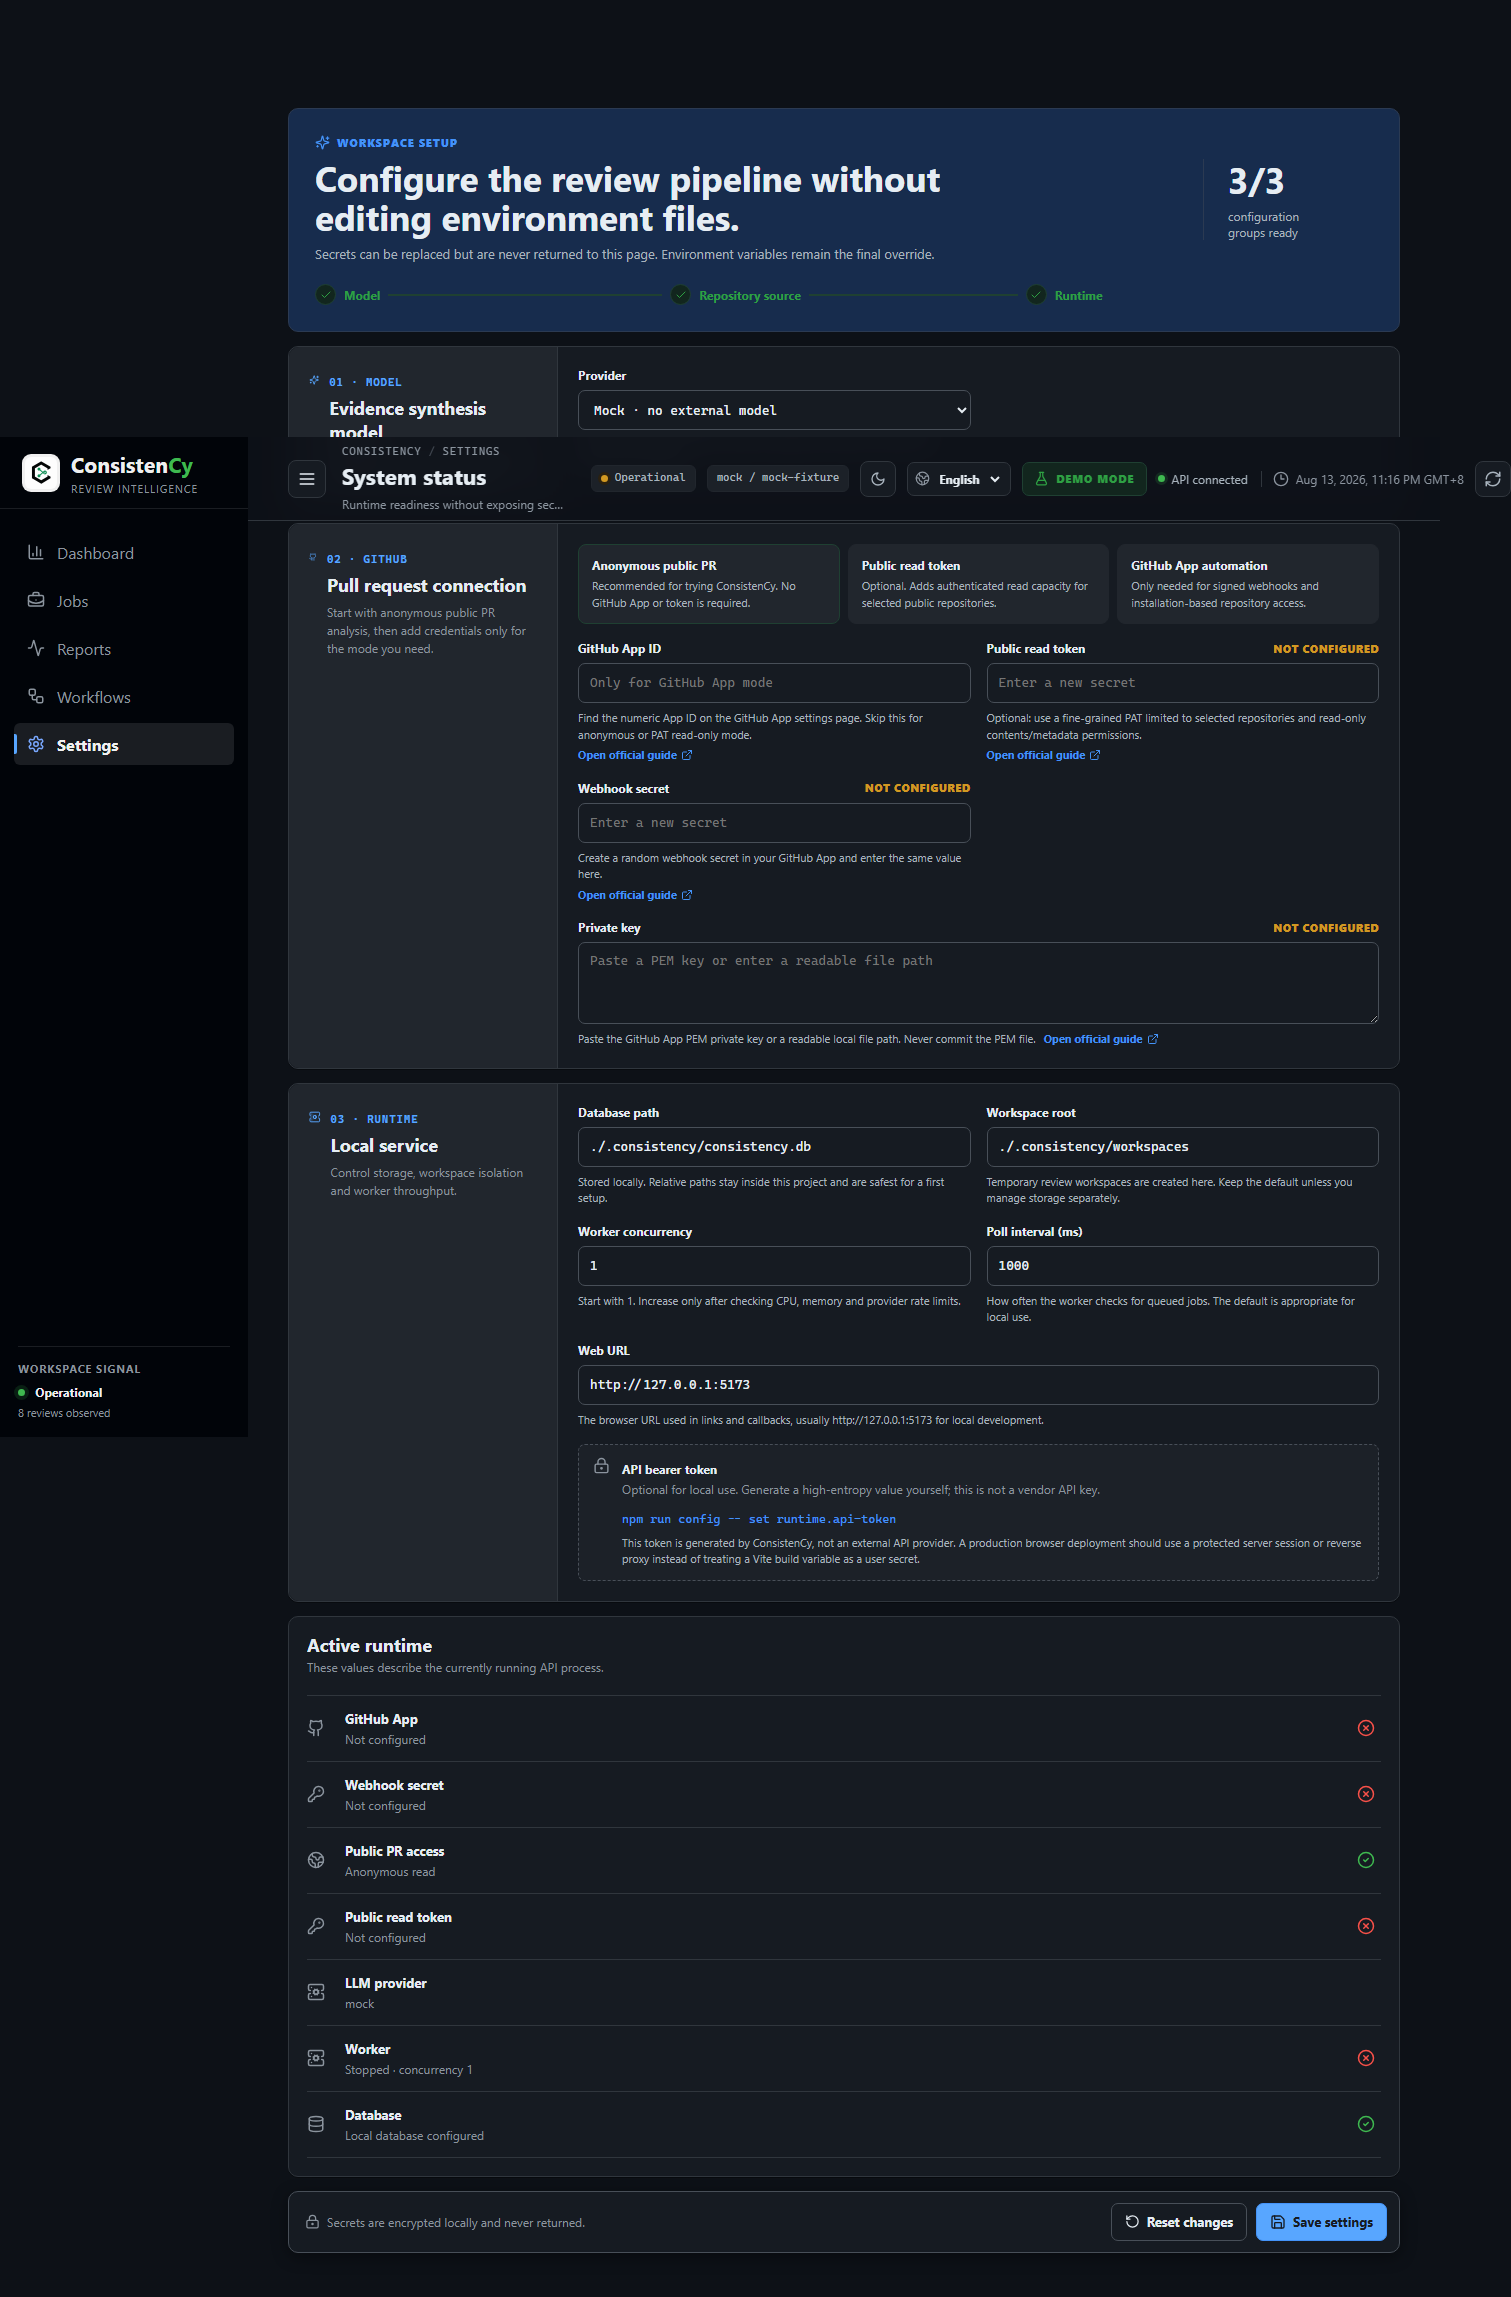
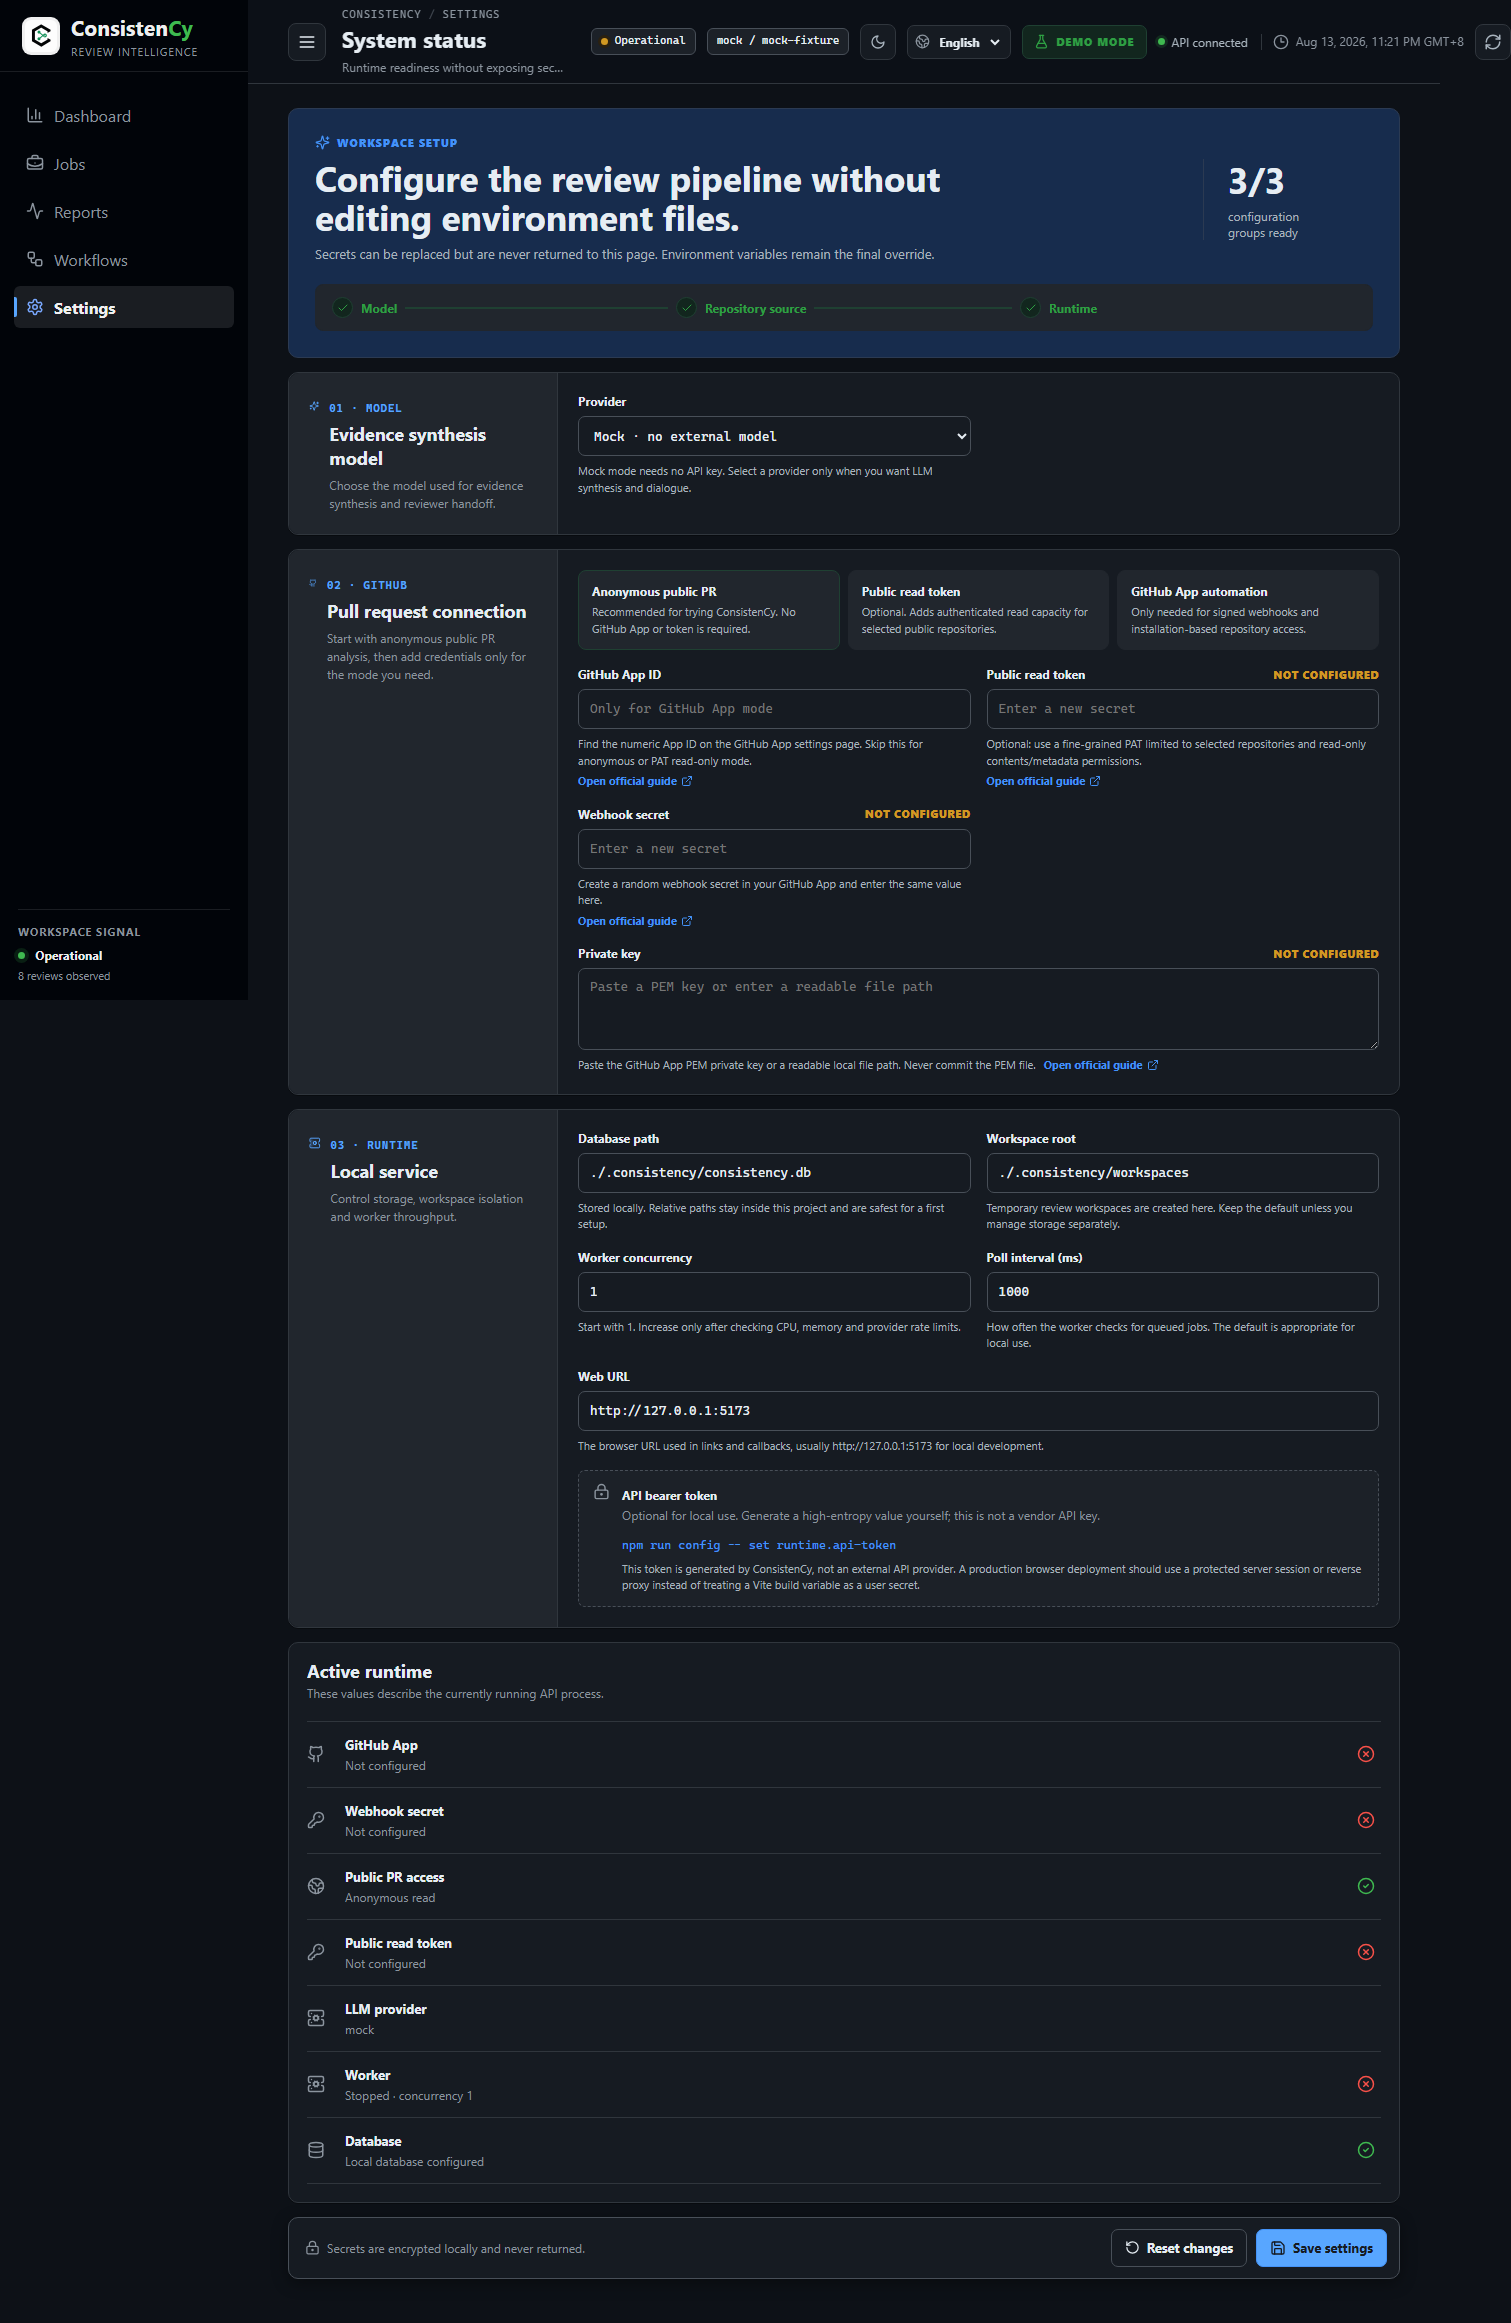
feat(web): stage-4 visual acceptance - alignment, wrapping, and style guide
Acceptance-loop fixes: sidebar strip vertical centering, prominent status chips, header time line-height, two-line finding title clamp, checkbox accent color, jobs/workflows/light screenshot coverage. Records the final Vertex-vision acceptance review and adds docs/frontend-style-guide.md with the implementation conventions.

diff --git a/tests/e2e/capture-screenshots.spec.ts b/tests/e2e/capture-screenshots.spec.ts
@@ -50,6 +50,8 @@ test.describe("public project screenshot capture", () => {
 
     await page.getByRole("button", { name: /Jobs|任务/ }).click();
     await expect(page.locator("h1")).toContainText(/Review queue|审查队列/i);
+    await stabilize(page, ".jobs-page", [".jobs-table .table-row"]);
+    await capture(page, "jobs-dark-desktop.png");
 
     const succeededJob = page.locator(".jobs-table button.table-row").filter({ hasText: /succeeded|已完成|已成功/i }).first();
     await expect(succeededJob).toBeVisible();
@@ -73,6 +75,11 @@ test.describe("public project screenshot capture", () => {
     await page.getByRole("button", { name: "Change Map" }).click();
     await expect(page.locator(".notebook-card").first()).toBeVisible();
     await capture(page, "report-notebook-demo-desktop.png");
+
+    await page.getByRole("button", { name: /Workflows|工作流/ }).click();
+    await expect(page.locator("h1")).toContainText(/Workflow builder|工作流构建器/i);
+    await stabilize(page, ".workflows-page", [".workflow-list", ".react-flow"]);
+    await capture(page, "workflows-dark-desktop.png");
 
     await page.getByRole("button", { name: /Settings|设置/ }).click();
     await expect(page.locator("h1")).toContainText(/System status|系统状态/i);
@@ -105,7 +112,11 @@ test.describe("public project screenshot capture", () => {
     await expect(page.locator("h1")).toContainText(/Review overview|审查概览/i);
     await stabilize(page, ".page-stack.dashboard-page", [".dashboard-intro", ".metric-grid .metric-card"]);
     await capture(page, "dashboard-light-desktop.png");
-    await page.getByRole("button", { name: /Settings|设置/ }).click();
+    await page.getByRole("button", { name: "任务", exact: true }).click();
+    await expect(page.locator("h1")).toContainText(/Review queue|审查队列/i);
+    await stabilize(page, ".jobs-page", [".jobs-table .table-row"]);
+    await capture(page, "jobs-light-desktop.png");
+    await page.getByRole("button", { name: "设置", exact: true }).click();
     await expect(page.locator("h1")).toContainText(/System status|系统状态/i);
     await stabilize(page, ".settings-editor", [".settings-group"]);
     await capture(page, "settings-light-desktop.png");

diff --git a/apps/web/src/styles/shell.css b/apps/web/src/styles/shell.css
@@ -61,10 +61,10 @@
   position: relative;
   width: 100%;
   height: 42px;
-  padding: 0 13px;
+  padding: 0 12px;
   display: flex;
   align-items: center;
-  gap: 12px;
+  gap: 10px;
   border: 0;
   border-radius: 6px;
   background: transparent;
@@ -76,11 +76,13 @@
 .app-sidebar nav button::before {
   position: absolute;
   left: 0;
+  top: 50%;
   width: 3px;
   height: 20px;
   border-radius: 0 2px 2px 0;
   background: transparent;
   content: "";
+  transform: translateY(-50%);
 }
 .app-sidebar nav button:hover {
   background: var(--sidebar-faint);
@@ -214,10 +216,10 @@
   align-items: center;
   gap: 7px;
   padding: 4px 9px;
-  border: 1px solid var(--border-subtle);
+  border: 1px solid var(--border-strong);
   border-radius: 6px;
   background: var(--surface-subtle);
-  color: var(--muted-strong);
+  color: var(--foreground);
   font: 11px/1.5 var(--font-mono);
   white-space: nowrap;
 }

diff --git a/apps/web/src/styles/settings.css b/apps/web/src/styles/settings.css
@@ -71,6 +71,10 @@
   display: grid;
   grid-template-columns: repeat(3, 1fr);
   gap: 8px;
+  padding: 12px 16px;
+  border: 1px solid var(--border-subtle);
+  border-radius: 8px;
+  background: var(--surface-muted);
 }
 .setup-rail span {
   min-width: 0;
@@ -195,7 +199,7 @@
   align-items: center;
   justify-content: space-between;
   gap: 8px;
-  color: var(--sidebar-hover);
+  color: var(--foreground);
   font-size: 12px;
   font-weight: 750;
 }

diff --git a/apps/web/src/styles/report.css b/apps/web/src/styles/report.css
@@ -690,11 +690,19 @@
 .finding-summary:hover {
   background: var(--surface-muted);
 }
+.finding-title {
+  min-width: 0;
+}
 .finding-title strong, .finding-title small {
   display: block;
 }
 .finding-title strong {
+  display: -webkit-box;
+  overflow: hidden;
   font-size: 13px;
+  line-height: 1.4;
+  -webkit-line-clamp: 2;
+  -webkit-box-orient: vertical;
 }
 .finding-title small {
   margin-top: 3px;

diff --git a/apps/web/src/styles/controls.css b/apps/web/src/styles/controls.css
@@ -77,7 +77,12 @@
   box-shadow: 0 0 0 3px var(--success-wash);
 }
 .header-time {
+  align-self: center;
   color: var(--muted);
+  line-height: 1.2;
+}
+input[type="checkbox"] {
+  accent-color: var(--primary);
 }
 .icon-button {
   width: 36px;

diff --git a/apps/web/src/styles/dashboard.css b/apps/web/src/styles/dashboard.css
@@ -309,6 +309,7 @@
   white-space: nowrap;
   font-size: 13px;
   font-weight: 650;
+  line-height: 1.4;
 }
 .priority-row > span:not(.badge), .priority-row code {
   overflow: hidden;

diff --git a/docs/frontend-style-guide.md b/docs/frontend-style-guide.md
@@ -1,0 +1,57 @@
+# ConsistenCy 前端风格指南（Codex × ZCode 融合）
+
+> 视觉评审标准见 docs/design-qa/style-checklist.md；本文件记录实现约定，供后续开发遵循。
+
+## 1. 主题机制
+
+- 双主题由 apps/web/src/styles/tokens.css 定义：:root（浅色，历史配色）+
+  :root[data-theme="dark"]（Codex 式深色调）。**暗色为默认**。
+- apps/web/src/theme.tsx 的 ThemeProvider 负责 data-theme / color-scheme / localStorage
+  （key: consistency.theme.v1，取值 dark | light | system）；index.html 内联脚本防首帧闪烁。
+- 组件**禁止硬编码颜色**，一律引用 token。新增 token 必须同时写两个主题块。
+- 契约测试：apps/web/src/styles/tokens.test.ts 会失败于任何未映射的硬编码色
+  （图表专属色在测试的 ALLOWED 列表中显式登记）。
+
+## 2. Token 家族速查
+
+| 家族 | 用途 |
+| --- | --- |
+| background / surface / surface-subtle / surface-muted | 背景三层 + 内嵌区 |
+| foreground / muted / muted-strong | 正文 / 次级 / 强调文本 |
+| border / border-strong / border-subtle | 1px 细边框三档 |
+| sidebar / sidebar-muted / sidebar-hover / sidebar-text* | 侧栏专用（恒为深色底） |
+| primary / success / warning / danger + strong / soft / faint | 语义色三档 |
+| focus-ring / shadow-soft / shadow-card / scrim / header-bg / overlay | 焦点 / 阴影 / 遮罩 / 顶栏 |
+
+## 3. 排版与密度约定
+
+- SHA、行号、状态、命令、路径、时长、计数 → var(--font-mono)（Cascadia Code 优先）。
+- KPI 与表格数字：mono + font-variant-numeric: tabular-nums（body 已全局启用）。
+- 列表行高 ≤ 40-46px（表格行 42px / 发现行 46px）；卡片留白 ≤ 内容高度的 1/3。
+- 视觉标题 ≤ 3 级：顶栏 h1（22px）→ 面板 h2 → 行级标签。
+- 圆角：面板/卡片 8px、控件 6px、徽标 999px。
+
+## 4. 布局约定
+
+- 顶栏 = mono 面包屑（ConsistenCy / 页面）+ 状态行 chips（心跳、provider/model、
+  语言、主题、刷新；≤1100px 时隐藏 chips）+ 标题。
+- 侧栏激活态 = 左侧 3px accent 边条（垂直居中）+ 微弱高亮，不用整块填充。
+- 报告页 report 模式 = .report-ide 三栏（300px 发现列表 | 证据中心 | 340px Agent
+  时间线，两侧 sticky 独立滚动；≤1200px 折叠单列）；Notebook 为全宽研究空间。
+- 命令式输入 = > 前缀（mono、accent 色）+ mono 输入框。
+
+## 5. 动效与可访问性
+
+- 动效时长 ≤ 180ms、无弹簧；prefers-reduced-motion 下全部归零（motion.css）。
+- 全局 :focus-visible 焦点环（base.css）使用 --focus-ring；复选框 accent-color。
+- 语义色对比度按 WCAG AA 校准（暗色采用 GitHub-dark 系明色）。
+- 中英双语文案一律走 i18n.tsx 的 t()，不得硬编码界面文本。
+
+## 6. 视觉 QA 回路
+
+- 截图：npm run capture:screenshots（本机 Node 25 时用
+  playwright.capture.node22.config.ts 临时配置，见 docs/design-qa/README.md）。
+- 评审：workflow agent（provider google-vertex / gemini-2.5-flash）读
+  style-checklist + 截图，输出结构化 issues；结果存 docs/design-qa/。
+- 判定：critical / high 阻断；medium 尽量当轮修复；静态截图看不到焦点环属正常
+  （焦点环只在键盘聚焦时出现），不得据此报 high。
